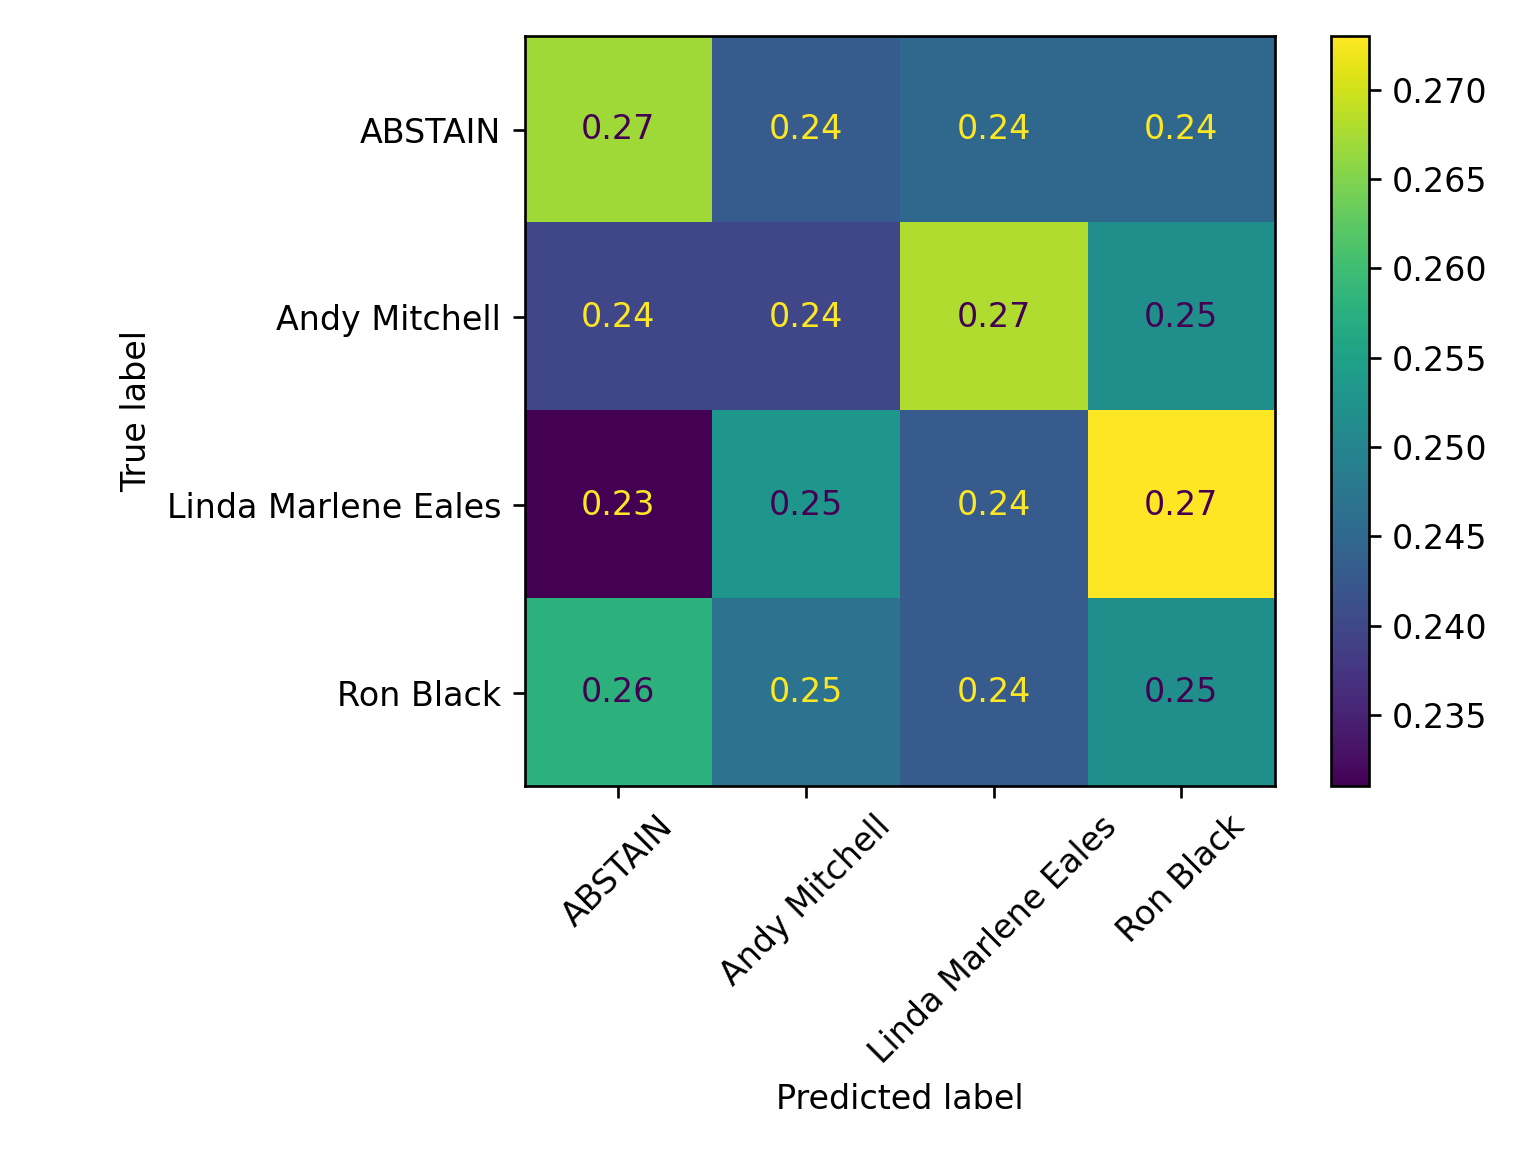
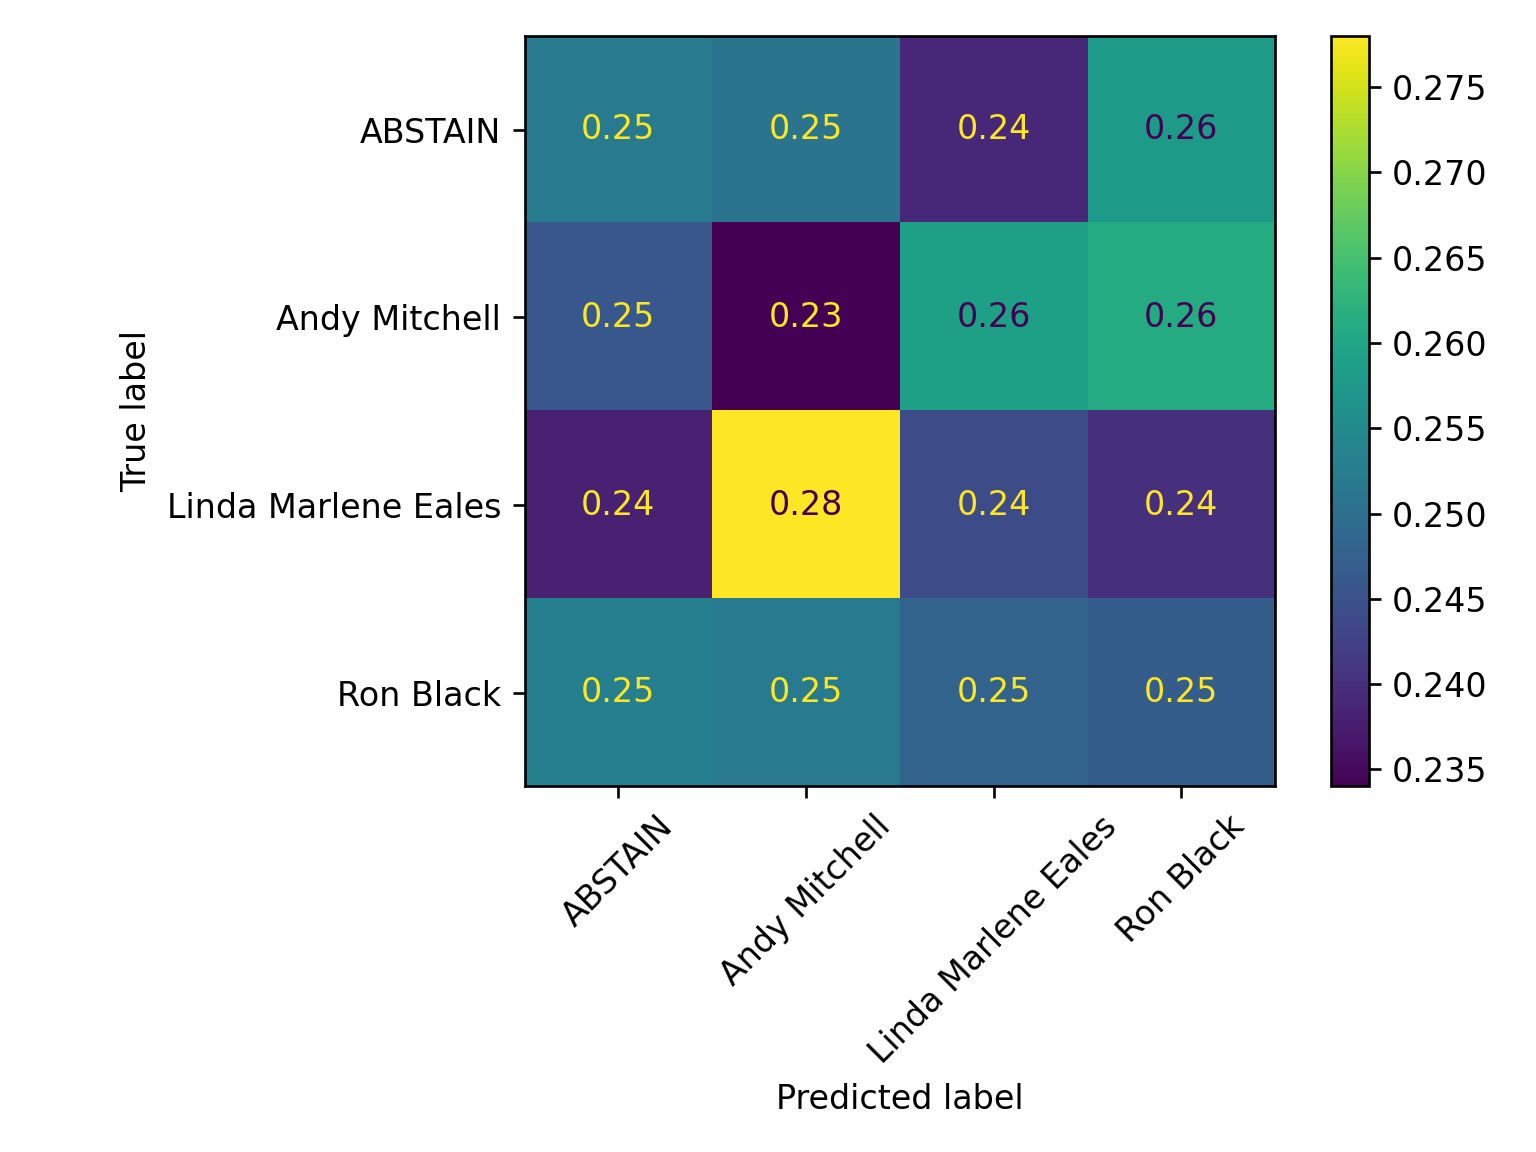
apply formatting via black

diff --git a/main.py b/main.py
@@ -13,28 +13,28 @@ import seaborn as sns
 import matplotlib.pyplot as plt
 
 
-
 def main(file):
 
     # Load in the data
     df = pd.read_csv(file)
-    df.columns = ['vote','bytes']
+    df.columns = ["vote", "bytes"]
 
-    _, ax = plt.subplots(dpi = 240)
-    ax.set_title('Byte Length Distribution By Vote')
-    sns.histplot(data=df, x='bytes', hue='vote', ax=ax)
+    _, ax = plt.subplots(dpi=240)
+    ax.set_title("Byte Length Distribution By Vote")
+    sns.histplot(data=df, x="bytes", hue="vote", ax=ax)
     plt.tight_layout()
-    plt.savefig('figures/conditional_distributions.png')
-
+    plt.savefig("figures/conditional_distributions.png")
 
     # Make data to pass to experiment
-    X = df[['bytes']].values
+    X = df[["bytes"]].values
     y = df.vote.values
     # Split the data into a train/test set. Use half for training, half for testing.
-    Xtrain, Xtest, ytrain, ytest = train_test_split(X, y, train_size=0.5, random_state=19920908, stratify=y)
+    Xtrain, Xtest, ytrain, ytest = train_test_split(
+        X, y, train_size=0.5, random_state=19920908, stratify=y
+    )
 
     # Baseline will be a dummy model
-    dummy_clf = DummyClassifier(strategy='uniform')
+    dummy_clf = DummyClassifier(strategy="stratified")
 
     # Now for our model.
     # Here is how the prediction will go
@@ -45,41 +45,35 @@ def main(file):
     # If at prediction time the OHE'er sees a new level, it should just ignore it.
 
     # Here is the OHE'er
-    one_hot_encoder = OneHotEncoder(handle_unknown='ignore', sparse=False)
+    one_hot_encoder = OneHotEncoder(handle_unknown="ignore", sparse=False)
 
-    # Here is a column transformer which will apply the OHE'er to the Bytes column
+    # Here is an instantiation of the model we will be running.
     naive_bayes = MultinomialNB()
 
     # Place them together in a single estimator pipeline.  This will transform bytes and make predictions in a single call
-    steps = [('ohe', one_hot_encoder), ('naive_bayes', naive_bayes)]
+    steps = [("ohe", one_hot_encoder), ("naive_bayes", naive_bayes)]
 
     nb_model = Pipeline(steps=steps)
 
-
     # Run experiments
-    model_names = ('Dummy_Classifier','Naive_Bayes')
+    model_names = ("Dummy_Classifier", "Naive_Bayes")
     models = (dummy_clf, nb_model)
     for name, model in zip(model_names, models):
 
         experiment = Experiment(
-                                experiment_name=name,
-                                model=model,
-                                Xtrain=Xtrain,
-                                Xtest=Xtest,
-                                ytrain=ytrain,
-                                ytest=ytest
-                                )
+            experiment_name=name,
+            model=model,
+            Xtrain=Xtrain,
+            Xtest=Xtest,
+            ytrain=ytrain,
+            ytest=ytest,
+        )
 
         experiment.run()
 
-
-
-
-
-
     return None
 
-if __name__ == '__main__':
 
+if __name__ == "__main__":
 
-    main(file='data/selwyn-just-mayor.csv')
+    main(file="data/selwyn-just-mayor.csv")

diff --git a/src/experiment.py b/src/experiment.py
@@ -1,12 +1,18 @@
-from dataclasses import dataclass, field
+from dataclasses import dataclass
 from typing import Union, List
 
 from numpy.typing import ArrayLike
 from sklearn.pipeline import Pipeline
 from sklearn.dummy import DummyClassifier
-from sklearn.metrics import confusion_matrix, accuracy_score, classification_report, ConfusionMatrixDisplay
+from sklearn.metrics import (
+    confusion_matrix,
+    accuracy_score,
+    classification_report,
+    ConfusionMatrixDisplay,
+)
 
 import matplotlib.pyplot as plt
+
 
 @dataclass
 class Experiment:
@@ -17,18 +23,8 @@ class Experiment:
     ytrain: ArrayLike
     Xtest: ArrayLike
     ytest: ArrayLike
-    accuracy_score: float = field(init=False)
-    stratified_accuracy: ArrayLike = field(init=False)
 
-
-    def __post_init__(self) -> None:
-
-        accuracy, stratified_accuracy = self.run()
-        self.accuracy_score = accuracy
-        self.stratified_accuracy = stratified_accuracy
-
-
-    def run(self)->List[float]:
+    def run(self) -> List[float]:
 
         self.model.fit(self.Xtrain, self.ytrain)
         ypred = self.model.predict(self.Xtest)
@@ -37,23 +33,26 @@ class Experiment:
         # Compute accuracy scores
 
         accuracy = accuracy_score(y_true=self.ytest, y_pred=ypred)
-        stratified_accuracy = cm.diagonal()/cm.sum(axis=1)
+        stratified_accuracy = cm.diagonal() / cm.sum(axis=1)
 
         # Make a classification report
-        with open(f'results/{self.experiment_name}_classification_report.txt', 'w') as report:
-            cr = classification_report(y_true = self.ytest, y_pred=ypred)
+        with open(
+            f"results/{self.experiment_name}_classification_report.txt", "w"
+        ) as report:
+            cr = classification_report(y_true=self.ytest, y_pred=ypred)
             report.write(cr)
 
         # Plot the confusion matix
 
         cm_fig, cm_ax = plt.subplots(dpi=240)
-        ConfusionMatrixDisplay.from_predictions(y_true=self.ytest, y_pred=ypred, ax=cm_ax, xticks_rotation=45,  normalize='true')
+        ConfusionMatrixDisplay.from_predictions(
+            y_true=self.ytest,
+            y_pred=ypred,
+            ax=cm_ax,
+            xticks_rotation=45,
+            normalize="true",
+        )
         plt.tight_layout()
-        plt.savefig(f'figures/{self.experiment_name}_conusion_matrix.png')
+        plt.savefig(f"figures/{self.experiment_name}_conusion_matrix.png")
 
         return [accuracy, stratified_accuracy]
-
-
-
-
-
